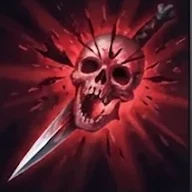
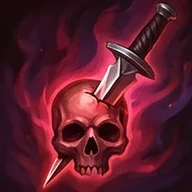
Ícones novos das habilidades do level 20 e 30 (2ª folha do Daniel) e upload solto tirado da raiz
Claude-Session: https://claude.ai/code/session_01W1tJzrLymhGZX7wGCmrd2m

diff --git a/docs/notas-tecnicas.md b/docs/notas-tecnicas.md
@@ -450,7 +450,7 @@ gravar em `dados`, ela precisa manter/subir a `versao`.
   Testes: banco.test.sql ("arena: ..." level 30) e regras.test.js ("habilidades do level 20/30", "level 20 na caçada").
 - Tela: `efeitoNivel` (texto com os valores), cadeado "Libera no level N" (`.trancada`), etiqueta do modo (`.hab-nivel`);
   mensagens novas na caçada (☠ veneno, 🧪 bolso), masmorra e Arena (queima, calado, Milagre, devolve, cego, executa).
-- Ícones: os 16 FEITOS (folha do Daniel, Gemini, 4x4 com nomes embaixo + uma 5ª linha a mais ignorada), cortados à mão
+- Ícones: os 16 FEITOS (2ª folha do Daniel, Gemini, 4x4 limpa), cortados com `separacoes` de recortar_grade.py (margem 8)
   (só a pintura, sem o nome) em `assets/habilidades/<id>.webp` 192x192.
 
 ## Caixa de entrada e sininho (Henri, nov/2026)
